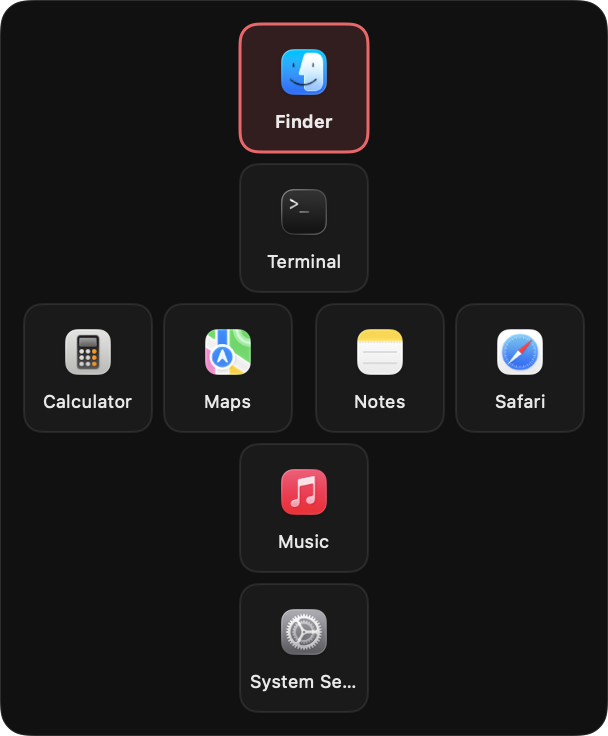
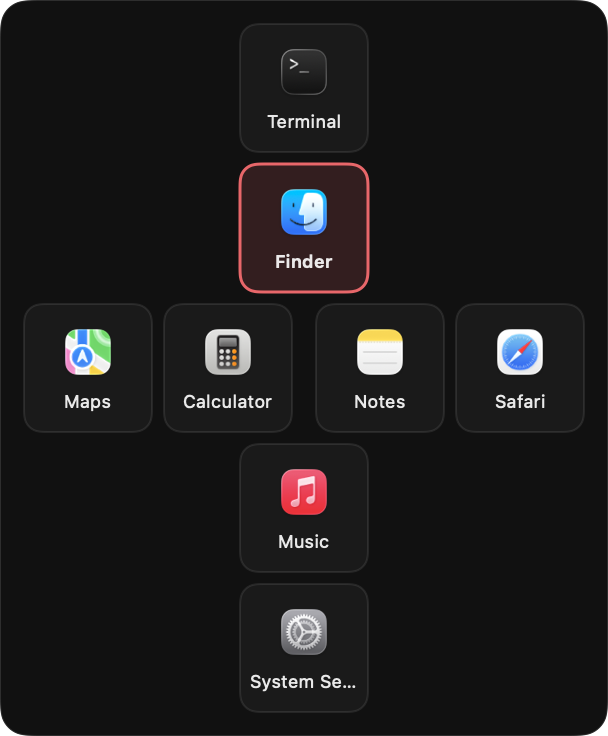
Order launcher tiles outward from the center

Changed region(s): [[0.375, 0.0312, 0.625, 0.4062], [0.2812, 0.4375, 0.4375, 0.5625], [0.0625, 0.4375, 0.2188, 0.5625]]

diff --git a/LauncherUI.swift b/LauncherUI.swift
@@ -37,7 +37,8 @@ struct PuntoLauncherView: View {
 
     private func tiles(_ index: Int) -> some View {
         Group {
-            ForEach(0..<2, id: \.self) { slot in
+            // Slot 1 is nearest the center; slot 2 extends outward.
+            ForEach(index == 0 || index == 3 ? [1, 0] : [0, 1], id: \.self) { slot in
                 let path = model.launcherApps[index][slot]
                 let selected = model.launcherDirection == index && model.launcherSlot == slot
                 let title = path.isEmpty ? "—" : FileManager.default.displayName(atPath: path)

diff --git a/docs/DEVELOPMENT.md b/docs/DEVELOPMENT.md
@@ -99,7 +99,7 @@ When upgrading from the old bundle, replace the old Dock shortcut with `Punto.ap
 - A different direction selects its first available app.
 - The overlay closes **1.2 seconds** after the last direction press. A later press starts from the first slot again.
 - ○ only dismisses visual feedback; it does not close an app already opened.
-- The non-activating panel is at most **304 × 368 points**, with eight 64-point square tiles arranged by direction. Up/down pairs are stacked vertically; left/right pairs are horizontal. There is no center icon, header, footer, or instructional text; the selected tile has a coral border. Direction and slot labels remain available to Accessibility. It does not steal focus or add a Dock icon on its own.
+- The non-activating panel is at most **304 × 368 points**, with eight 64-point square tiles arranged by direction. Up/down pairs are stacked vertically; left/right pairs are horizontal. Slot 1 is always nearest the center and slot 2 extends outward: visual order is reversed for Up and Left, without changing saved assignments or launch order. There is no center icon, header, footer, or instructional text; the selected tile has a coral border. Direction and slot labels remain available to Accessibility. It does not steal focus or add a Dock icon on its own.
 - Other buttons are consumed and cursor movement is suppressed while the overlay is visible.
 
 Apps previously assigned to D-pad buttons are migrated into the first slot. Previous D-pad and R1 shortcut/Hold assignments remain stored, but are not executed because these inputs now have reserved roles.
